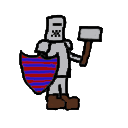
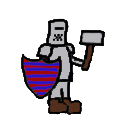
cleaned up the sprites and shadows

Changed region(s): [[0.125, 0.0938, 0.8438, 0.9062]]

diff --git a/Objects/Character.cs b/Objects/Character.cs
@@ -27,7 +27,7 @@ public class Character
         // Drawing shadow
         spriteBatch.Draw(
             this.ShadowTexture,
-            this.Position + new Vector2(0, 96),
+            this.Position + new Vector2(16, 96),
             null,
             Color.White,
             0f,
